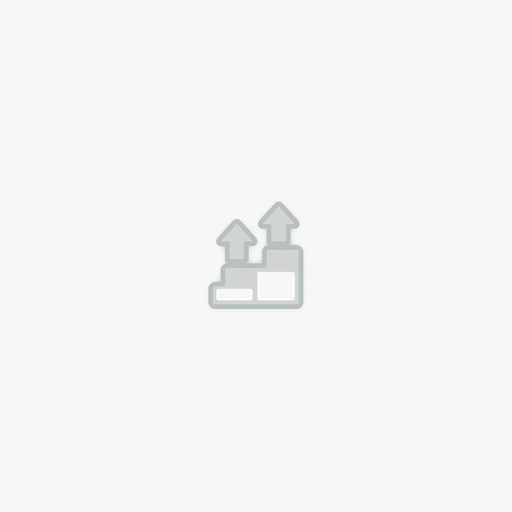
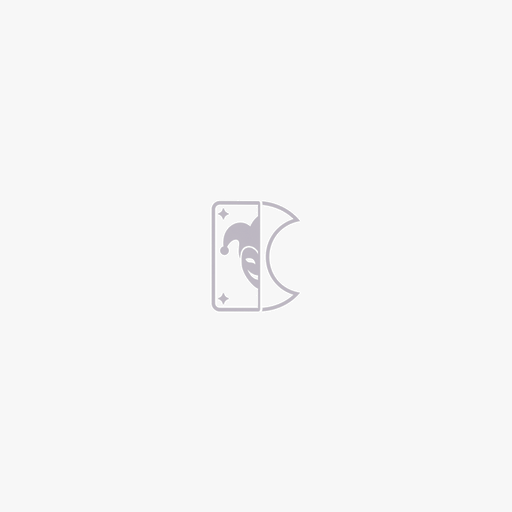
A 级特效 + 卡面素材管线 + 灌铅骰换图(试玩反馈批二)
- FxBurst 特效层(全程序化 ~640 行):预支借/还/违约碎裂 · 超级百搭金色旋涡 ·
  客串谢幕追光 · 规则牌宣告横幅;教学关不演;四张实拍逐张对账修了「数字对形态错」四处
- 顺手修真 bug:客串到寿 core 摘卡后视图从不跟摘(数据没了、槽位还挂着)
- 商店/图鉴卡面统一接 art512 素材管线(与槽位同一路径, 不抄第二份)
- 灌铅骰素材 compound_mark(复利台阶, 与「概率翻倍」不同义)→ half_double;
  ⚠ 素材库无骰子类具象图, 要一眼看懂需用户出插画(台账 #10 已注)
- 包厢 ×1.2→×1.35/张(用户「条件很难奖励太低」);单测 2632/0

Changed region(s): [[0.4062, 0.375, 0.5938, 0.625]]

diff --git a/docs/design/rebalance_draft.md b/docs/design/rebalance_draft.md
@@ -1,0 +1,192 @@
+# 小丑牌全池重标 · 建议稿(⑥ 批,只建议不改动)
+
+> 2026-08-27 产出,供用户逐条批。**本稿没有改任何 JSON/代码**;所有「建议」列都是提案。
+> 口径 = [numbers.md](numbers.md) 五因子(生效时间/生效机制/条件概率/条件成本/波动性)
+> + [feedback_20260827.md](feedback_20260827.md)(真人台账,权重最高)
+> + `/tmp/sync5-gate/gate_cards.log`(kit 实测)。
+> **数字与 kit 读数分开列**:「当前数额」「建议数额」是设计值;「kit 读数」是仪器读数,二者不混。
+
+## 0. 读这张表之前的五条口径
+
+1. **目标带**:support 局贡献 **+800 ~ +2500**(方向值)。排序 = 离带的距离,偏离最狠的在最上面。
+   Target 族不适用这条带(它们按 jokers.md 覆盖面两层原则 + 牌型倍率 v3 的 `P(≥k|b) × (1+λ·CV)` 标定),
+   但仍按分差排进表里看离散度 —— ⑥ 批的总目标是把 70 倍离散度收敛到 3 倍量级。
+2. **kit 是 08-27 门的旧世界读数**。四张卡/族已在门后改动,读数标 ⚠**过期**:
+   **拆迁**(弃6×3.5 → 弃4×2)· **和弦/和声/静场**(条件已放宽;静场数额同步 0.4→0.15)·
+   **镜面**(已加 target_streak 连续两拍条件)· **包厢**(0.2→0.35/张,feedback #5)。
+   另外**牌型倍率 v3 已重标** ⇒ 全部 score 通路读数都是旧倍率世界的,Target 族尤甚 —— 本稿的
+   建议以「方向 + 幅度」为主,落地前逐张 `kit` 复测是 SOP 第 5 步,不能省。
+3. **kit 基线不止一个**:score 臂空装基准 **3882**;镜面在 twin 臂(基准 **17546**,分差尺度大一档);
+   灌铅骰在 allin 臂(基准 **4909**);盲奏在 dimstage 环境(基准 **3826**)。% 列已按各自基线归一。
+4. **经济 v2 改变了第④因子(条件成本)的世界**:弃牌 1◆/张(推翻弃牌免费)· 卡价平化 3◆ ·
+   开局 10◆ · 主收入 kind_coins。两个连带:
+   ① **吃弃牌的卡(黑胶/贝斯线/周转/拆迁/让位/早弃)条件成本剧变**,其中黑胶 v3 砍到 +1/弃的
+   前提「弃牌免费」已不存在;② numbers.md §8.0 的稀有度地板线(50/75/110)是按 4/6/9◆ 推的,
+   **卡价平化后这条线的推导基础失效**,rare 卡「贵所以该强」的溢价理由消失 —— 本稿按
+   「rare = 低频高爆/构筑轴」而非「rare = 更贵」给建议。
+5. **定价锚优先级:先验 > 真人 > bot**。kit 是 bot 读数 —— 凡 bot 与真人行为已知劈叉的条件
+   (保型/早锁/持币),表里按真人锚给建议并注明,**不拿 bot 读数直接除**。λ(风险厌恶)归用户手感,本稿不代填。
+
+---
+
+## 1. 头部怪物 · 压法建议(5 张,先批这节)
+
+| 卡 | kit 分差 | 现状 | 压法建议 | 理由 |
+|---|---:|---|---|---|
+| **mirror 镜面** | +36097(⚠twin 臂尺度,205.7%)⚠过期 | 复制 Target 倍率一半(×0.5),**已改 target_streak 连续两拍** | **① 先复测**:新条件把 twin 系触发从「每次 Target 牌型」压到「连续两拍」,幅度未知;**② 复测后若仍 >2×带顶:factor 0.5→0.35**;③ 仍不够再谈 streak 加长到 3(条件手段留作第二刀,别一次叠两刀) | 它是全池离散度之最;条件刀已下,数额刀等读数,一次只动一个变量 |
+| **triplet 三连音** | +23535(606.2%,触 27%) | 三条/葫芦/四条 ×10 | **×10 → ×8** | 覆盖面(三条系)对 27% 触发给 ×10,分差是 twin 的 1.7 倍而覆盖并不更窄;v3 组合口径 `P(≥三条|b)` 大概率也会把它压下来,先压到 ×8 等仪器数 |
+| **kaleido 万花筒** | +8794(226.5%,触 52%) | 换一种成手 ×4 | **×4 → ×3** | 它是覆盖面最宽的 Target(任意成手、只要求和上一拍不同),52% 触发 ×4 = 用最松的条件拿次高的量级;条件本身(换型)是好玩点,该压的是数额 |
+| **stair 阶梯** | +9765(251.6%,触 15%) | 顺子系 ×11 | **维持 ×11,等 `P(≥顺|b)` 扫表**(cards.md v3 首位) | feedback #2 权重最高:顺子实际比先验难(金币约束)且波动率该溢价 —— kit 的 15% 是弃牌免费旧世界的读数,**现在压它方向可能是反的**;这张卡的最终数归 v3 公式,不在本批手拍 |
+| **shredder 速弹** | +8010(206.3%,触 49%) | 早锁成手 ×4 | **数额先不动;修 M5 早锁可见性优先**(§8.4 已挂)。若 bot 尺度通胀要治:×4→×3.5 一小步 | bot 早锁 78% vs 真人 8%:kit 的 206% 真人根本拿不到 —— 按 bot 压数额 = 把一张真人端偏弱的卡打死;地基是可见性,不是数字 |
+
+**twin 双子(+13663,352%)不列头五但必须记账**:方向 **×6 → ×5**。它覆盖对子+两对
+(最宽的高频族,触发 89%),分差是全 Target 第二。⚠ 但它是 kit/sim 的 **anchor 队列本体**,
+动它 = 全仪器重基线,建议放在本批**最后**单独落,前后各跑一次全量对照。
+
+---
+
+## 2. 全 77 卡表
+
+五因子速记:`时`=生效时间(局/段) · `机`=生效机制(每次/累积) · `触`=触发率(kit 实测;规则牌为先验成手率) ·
+`币`=条件成本(0 / 1◆·弃 / 持币机会成本 / 缓存格机会成本 / 刷新费 / 借贷) · `波`=波动性(低/中/高)。
+kit 读数格式 = `分差 / 触发率`,全部是**旧世界读数**(见 §0.2),⚠过期 = 门后已改、读数作废。
+
+### 2.1 score 通路 —— 带上(偏离最狠 → 擦边)
+
+| # | 卡 | 稀有·类 | 当前数额 | 五因子速记 | kit 读数 | 建议数额 · 一句理由 |
+|---:|---|---|---|---|---|---|
+| 1 | mirror 镜面 | rare·supp | Target 倍率 ×0.5 复制(条件已改 target_streak) | 时局·机每次·触75%(旧条件)·币0·波中 | +36097 / 75% ⚠过期(twin臂) | **先复测;仍超则 0.5→0.35**(§1) |
+| 2 | triplet 三连音 | rare·target | 三条/葫芦/四条 ×10 | 时局·机每次·触27%·币0·波高 | +23535 / 27% | **×10→×8**(§1) |
+| 3 | twin 双子 | rare·target | 对子/两对 ×6 | 时局·机每次·触89%·币0·波低 | +13663 / 89% | **×6→×5,批末单独落**(anchor 连带,§1 末注) |
+| 4 | stair 阶梯 | rare·target | 顺子/同花顺 ×11 | 时局·机每次·触15%·币1◆·弃(追型要弃)·波高 | +9765 / 15% | **维持 ×11,等 P(≥顺\|b) 扫表**(feedback #2 反向证据,§1) |
+| 5 | kaleido 万花筒 | rare·target | 换型成手 ×4 | 时局·机每次·触52%·币0·波中 | +8794 / 52% | **×4→×3**(§1) |
+| 6 | shredder 速弹 | rare·target | 早锁成手 ×4 | 时局·机每次·触49%(bot)/真人早锁仅8%·币0·波高 | +8010 / 49% | **不动数额,先修 M5 早锁可见性**(§1) |
+| 7 | loadeddice 灌铅骰 | rare·supp | 全部概率 ×2 | 时局·机每次·触—(改判定)·币0·波压低他卡波动 | +2887 / —(allin臂) | **维持;挂组合观察**:骰+孤注 = 硬币翻面变必胜(0.5→1.0),骰+彩头同理 —— 若成必买组合,压法是概率封顶 95% 而非动数额 |
+| 8 | momentum 惯性 | unc·supp | 每早锁 +10% 永久 | 时局·机**累积**·触93%(bot)/真人8%·币0·波低 | +2795 / 93% | **维持;同速弹,修早锁可见性优先**(v3 §8.2 已裁定「先修卡不修价」) |
+| 9 | mono 单色 | rare·target | 同花系 ×12 | 时局·机每次·触3%(bot追不动)·币1◆·弃·波高 | +2724 / 3% | **维持 ×12,与阶梯同批等 b-扫表**(同花是金币约束最重的追型) |
+| 10 | nopair 清流 | com·supp | 无对 +190(=目标分45.7%) | 时局·机每次·触51%·币0·波中 | +2646 / 51% | **维持·观察**:带顶擦边;真人锚 p=0.33 时 190 是 v2 公式解,bot 51% 是 bot 爱散牌 —— 别按 bot 砍 |
+
+### 2.2 score 通路 —— 带内(维持为主,按分差降序)
+
+| # | 卡 | 稀有·类 | 当前数额 | 五因子速记 | kit 读数 | 建议数额 · 一句理由 |
+|---:|---|---|---|---|---|---|
+| 11 | fullcast 全员 | com·supp | 五张成手 +320(=76.9%) | 时局·机每次·触22%·币1◆·弃(追型)·波高 | +2013 / 22% | **维持;规则牌 Δp 数据到位后方向下调**(§8.3/§9.5 封锁未解,建成态 p 明显高于 0.10) |
+| 12 | gueststar 客串 | unc·supp | ×+0.5,一段后离场 | **时段**·机每次·触100%·币3◆买短租·波低 | +1944 / 100% | **维持**:唯一「一轮限定」卡,窗口窄换强度是五因子①的教科书案例 |
+| 13 | finale 尾声 | com·supp | 末2秒行动 +100(=24%) | 时局·机每次·触70%·币0·波低 | +1929 / 70% | **维持**(v2 定价,带内) |
+| 14 | ensemble 合奏 | rare·supp | 缓存并入:8选5 | 时局·机每次·触—(结构)·币占满3格·波低 | +1840 / — | **维持**:8选5 让牌型频率整体上移(实测事实),读数只量了分差、没量它抬别的卡的外部性 —— 别单看这行加码 |
+| 15 | variation 变奏 | com·supp | 换型 +85(=20.4%) | 时局·机每次·触74%·币0·波低 | +1834 / 74% | **维持**(v2 定价,带内) |
+| 16 | goldenvoice 金嗓 | rare·supp | 每6◆ ×+0.1 | 时局·机每次·触100%·币持币机会成本·波低 | +1657 / 100% | **维持·观察**:经济 v2 后持币曲线会变(弃牌要钱了),铁粉同理,等新持币分布 |
+| 17 | earlyout 早弃 | com·supp | 前4秒弃完 +80(=19.2%) | 时局·机每次·触70%·币1◆·弃·波中 | +1560 / 70% | **维持**:弃牌费是它条件的一部分,读数复测再议 |
+| 18 | popup 快闪 | com·supp | 段首拍 +80% 目标分 | 时局·机每次·触17%(结构1/6)·币0·波低 | +1542 / 17% | **维持**:v3 已从死档救活(0.8 目标分),窗口结构性、无操作空间,不再加 |
+| 19 | encore 回响 | com·supp | 保型 +240(=57.7%) | 时局·机每次·触22%·币0·波中 | +1424 / 22% | **维持**(v2 定价 240;真人建成态 0.30-0.33 印证过) |
+| 20 | neonsign 灯牌 | com·supp | 恒 +50(=12%) | 时局·机每次·触100%·币0·波零 | +1384 / 100% | **维持**:全池地板,v2 支配关系的锚,动它全表重排 |
+| 21 | rehearsal 排练 | com·supp | 缓存连号 +200(平加) | 时局·机每次·触55%(solver)·币占格·波中 | +1373 / 55%(solver臂) | **维持**:v2 死档复审后已由 solver 臂证活 |
+| 22 | rainbow 彩虹 | com·supp | 四花色 +180(=43.3%) | 时局·机每次·触27%·币0·波中 | +1357 / 27% | **维持·观察挂账**:真人 p=40%(n=15 薄),n≥30 坐实则按彩票公式 180→150 方向下调(§8.3) |
+| 23 | bassline 贝斯线 | rare·supp | 每8弃 ×+0.25 永久 | 时局·机**累积**·触73%·币**8◆/档**(经济v2)·波中 | +1284 / 73% | **维持,复测优先**:1◆/弃让每档成本 8◆ ≈ 两三拍收入,读数是免费弃牌世界的;若复测崩,step 8→6 而不是抬倍率 |
+| 24 | fastforward 快进 | rare·supp | 每早锁 ×+0.1 永久 | 时局·机**累积**·触84%(bot)/真人8%·币0·波低 | +1223 / 84% | **维持;随速弹/惯性一起等早锁可见性修复** |
+| 25 | skint 穷开心 | rare·supp | 币上限5 + 恒 ×+0.3 | 时局·机每次·触100%·币**上限5◆的全部机会成本**·波低 | +1165 / 100% | **维持·观察**:经济 v2 后 5◆ 上限的代价大幅变贵(弃牌/买卡都要钱),它可能自己掉下来 |
+| 26 | bassclef 低音谱 | unc·supp | 低牌=15 | 时局·机每次·触65%·币0·波低 | +1076 / 65% | **维持**(v3 已抬 10→15) |
+| 27 | allin 孤注 | rare·supp | 硬币:×2 或 ×0.5 | 时局·机每次·触100%·币0·**波极高(卖的就是方差)** | +1026 / 100% | **维持**:期望 ×1.25、方差拉满,正是彩票档该有的形状;组合风险记在灌铅骰行 |
+| 28 | opener 开场 | unc·supp | 段首拍 +150% | 时局·机每次·触17%(结构)·币0·波低 | +996 / 17% | **维持**(v3 刚抬 80→150,观察点①未回收,不叠刀) |
+| 29 | segue 串场 | com·supp | 换入记分 +40/张(=9.6%) | 时局·机每次·触70%·币0·波低 | +979 / 70% | **维持** |
+| 30 | curtain 谢幕 | unc·supp | 最后1秒行动 +60% | 时局·机每次·触41%·币0(压秒有失手险)·波中 | +956 / 41% | **维持**:与尾声同族,真人端「压秒」的执行折扣比 bot 大,别按 bot 加码 |
+| 31 | turnover 周转 | com·supp | 每弃 +30(=7.2%/弃) | 时局·机每次·触84%·币**1◆/弃**·波低 | +886 / 84% | **维持·复测**:经济 v2 每次触发自带 1◆ 成本,读数过时方向对它不利;复测低于带再抬 30→35 |
+| 32 | vinyl 黑胶 | com·supp | 每弃 +1 chips 永久 | 时局·机**累积**·触99%·币**1◆/弃**·波低 | +858 / 99% | **⑥ 抬:+1→+2/弃**。v3 砍 +3→+1 的唯一理由是「弃牌免费」(economy.json 预言),经济 v2 把前提整个推翻 —— 现在是付费累积,+1 是双重惩罚 |
+| 33 | backer 后台 | com·supp | 每2◆ +1 chips | 时局·机每次·触100%·币持币机会成本·波低 | +850 / 100% | **维持**(common 版铁粉,带内下沿刚好) |
+| 34 | undertone 低声部 | com·supp | ≤5点牌 +9 chips/张 | 时局·机每次·触65%·币0·波低 | +845 / 65% | **维持**(v3 裁定带内高沿) |
+
+### 2.3 score 通路 —— 带下(垫底族,抬法;按偏离降序)
+
+| # | 卡 | 稀有·类 | 当前数额 | 五因子速记 | kit 读数 | 建议数额 · 一句理由 |
+|---:|---|---|---|---|---|---|
+| 35 | wrecker 拆迁 | rare·target | 弃≥4 成手 ×2(**已改 4×2**) | 时局·机每次·触0%(bot不可达)·币**4◆/触**·波高 | +0 / 0% ⚠过期+仪器盲区 | **数额不再动(4×2 刚落);附议 cards.md 推荐案「触发返还弃牌费」**(拆迁公司出拆迁费)—— 把第④因子从惩罚改成风味;真人读数等粒度修复 |
+| 36 | hush 静场 | rare·supp | 零弃 ×+0.15(**条件已放宽**) | 时局·机每次·触8%(旧条件)/真人零弃拍率52%·币**省弃牌费(负成本)**·波低 | −64 / 8% ⚠过期 | **复测后 0.15→0.25 方向**:放宽+省弃牌费是双重顺风,但 0.15×52% 仍只有 ~+300/局量级,rare 卡沉底;先跑 kit 拿新触发率再定 |
+| 37 | harmony 和声 | rare·supp | 缓存同色 ×+0.12(**条件已放宽**) | 时局·机每次·触4%(旧条件)·币占格·波中 | +52 / 4% ⚠过期 | **复测后 ×+0.12→×+0.25 方向**:与和弦同条件,rare 对 common 要保住阶差;若放宽后触发率上 40%,0.25 落带内 |
+| 38 | chord 和弦 | com·supp | 缓存同色 +60 平加(**条件已放宽**) | 时局·机每次·触4%(旧条件)·币占格·波中 | +154 / 4% ⚠过期 | **复测后 +60→+100 方向**:曾是量级豁免户(4% 触发数额救不了),条件刀已下,数额跟上一步让它离开死档 |
+| 39 | stageexit 让位 | com·supp | 每弃人头 +30(=7.2%/张) | 时局·机每次·触31%·币**1◆/弃**·波中 | +264 / 31% | **⑥ 抬:+30→+50/张**:垫底 +264 还要倒贴弃牌费,条件(人头在手且舍得弃)不便宜 |
+| 40 | triad 三和弦 | com·supp | 三条+ +25 chips | 时局·机每次·触11%·币0·波高 | +335 / 11% | **⑥ 抬:+25→+40**:爆发档铁律「数额必须值得等」,11% 触发给 25 chips 谁也不等 |
+| 41 | duo 对唱 | com·supp | 含对成手 +10 chips | 时局·机每次·触49%·币0·波低 | +373 / 49% | **⑥ 抬:+10→+15**:同为 common 改基,低声部一张牌就 +9,这张全手才 +10 |
+| 42 | reprise 复读 | unc·supp | 保型 +80% | 时局·机每次·触22%(bot不保型)·币0·波中 | +447 / 22% | **维持**:真人锚已对齐(v3 按建成态 0.30 定 80%,§8.2)——kit 低是 bot 行为,不是价格错 |
+| 43 | warmtone 暖色 | com·supp | 红牌 +3 chips/张 | 时局·机每次·触97%·币0·波零 | +461 / 97% | **维持**:v3 有意砍到地板(无条件卡不许最优),低于带是设计不是病 |
+| 44 | cooltone 冷色 | com·supp | 黑牌 +3 chips/张 | 时局·机每次·触97%·币0·波零 | +465 / 97% | **维持**(与暖色同刀同理) |
+| 45 | boxseats 包厢 | rare·supp | 缓存人头 ×+0.35/张(**已 0.2→0.35**) | 时局·机每次·触50%·币**占格(最贵的机会成本)**·波中 | +466 / 50% ⚠过期 | **维持 0.35,复测定稿**:feedback #5 的抬法已落地(满3张 ×2.05),先看新读数再谈第二步 |
+| 46 | stilllife 静物 | com·supp | 零换 +60(=14.4%) | 时局·机每次·触28%·币0(放弃对调手段)·波中 | +474 / 28% | **⑥ 抬:+60→+90**:「零换」在拖拽对调是核心手势的游戏里是真约束,28% 触发 +60 沉底 |
+| 47 | chorus 副歌 | unc·supp | 段末拍 +75% | 时局·机每次·触17%(结构1/6)·币0·波低 | +487 / 17% | **维持**:真人反事实 77/拍 ≈ 目标 75(v3 裁定不动);kit 低是 bot 段末分偏低 |
+| 48 | glowstick 荧光棒 | unc·supp | +60% 起,每拍 −6% | 时局·机每次·触42%·币0·波低 | +502 / 42% | **维持**:v3 按前6拍积分裁定带内(−6% 在手感带内) |
+| 49 | recycle 回收 | unc·supp | 缓存弃牌返 2×点数 | 时局·机每次·触84%·币1◆·弃+占格·波低 | +529 / 84% | **⑥ 抬:2×→3× 点数**:高触发低单价,加上弃牌费后净值更薄 |
+| 50 | vip 贵宾 | unc·supp | 人头=20 | 时局·机每次·触58%·币0·波低 | +546 / 58% | **⑥ 抬:20→25**:v3 抬 15→20 后真人反事实仍 ~41 分/拍,不到 unc 目标 75 的六成 |
+| 51 | superfan 铁粉 | unc·supp | 每2◆ +5%,cap 15% | 时局·机每次·触100%·币持币机会成本·波零 | +583 / 100% | **维持**:v3 刚砍(无脑卡最优的自我纠错);经济 v2 会让持币真的有代价,先看新持币分布 |
+| 52 | blindplay 盲奏 | unc·supp | 暗牌记分 +8 chips/张 | 时局·机每次·触88%(dimstage下)·币0·波低 | +593 / 88%(dimstage臂) | **⑥ 抬:+8→+12**:只在特定脸的场合生效的卡,窗口窄(五因子①)反而该更强,现在是窄且弱 |
+| 53 | duet 二重唱 | unc·supp | 含对成手 +25% | 时局·机每次·触49%·币0·波低 | +609 / 49% | **⑥ 抬:+25%→+30%**:小步,与对唱同族同方向 |
+| 54 | stopwatch 秒表 | unc·supp | 每剩1秒 +8% | 时局·机每次·触65%·币0(赶手速)·波中 | +627 / 65% | **⑥ 抬:+8%→+10%/秒**:时间是唯一压力货币,拿秒数换分的卡该给足汇率 |
+| 55 | triplebill 三重 | unc·supp | 三条+ +60% | 时局·机每次·触11%·币0·波高 | +641 / 11% | **⑥ 抬:+60%→+80%**:与三和弦同族,爆发档要值得等 |
+| 56 | bench 替补 | unc·supp | 缓存最高点数计入 chips | 时局·机每次·触100%·币占格·波低 | +662 / 100% | **⑥ 抬:计 1 倍→计 2 倍**(additive_cache_top 1→2):恒触发也才 +662,占格成本没被付够 |
+| 57 | jackpot 彩头 | unc·supp | 段末拍 50% ×3 | 时局·机每次·触8%·币0·**波极高** | +675 / 8% | **⑥ 抬:×3→×4**:结构窗(1/6)× 硬币,双重折扣下的爆发档,数额要配得上 8% 的等待 |
+| 58 | freeze 定格 | unc·supp | 早锁后下一拍 +30% | 时局·机每次·触58%·币0·波中 | +683 / 58% | **⑥ 抬:+30%→+40%**:跨拍接力(先早锁、下拍才收钱)是双拍成本,读数也确实沉底;真人早锁修好后再复测 |
+
+### 2.4 coin 通路(量纲=◆,不与分数混排)
+
+| # | 卡 | 稀有 | 当前数额 | 五因子速记 | kit 读数(累计◆) | 建议 · 一句理由 |
+|---:|---|---|---|---|---|---|
+| 59 | interest 利息 | unc | 每持4◆ +1◆,cap 5 | 时局·机每次·触100%·币持币·波零 | +112.2◆ / 100%(221%) | **⑥ 压:cap 5→3**:金币收入通路的头部(基准的 2.2 倍);经济 v2 让钱重新是活约束,利滚利的复利卡必须先压 |
+| 60 | lonewolf 独狼 | rare·target | 零弃 +3◆ + Target 必上架 | 时局·机每次·触100%(bot)/真人零弃52%·币放弃弃牌·波低 | +84.4◆ / 100% | **维持**:它占的是 Target 槽(放弃全部倍率),机会成本已经是全池最大 |
+| 61 | royalty 分成 | unc | 牌型金币 ×2 | 时局·机每次·触100%·币0·波低 | +54.7◆ / 100% | **维持**:feedback #4 是信息缺口(基准不明),卡面带例已修,数值不动 |
+| 62 | matador 斗牛士 | unc | 脸的规则咬人时 +2◆ | 时局·机每次·触脸相关·币0·波中 | +24.0◆ / — | **维持**:对抗补偿卡,价值随脸池走,归 versus.md 侧衡量 |
+| 63 | tipjar 小费罐 | com | 零弃 +2◆ | 时局·机每次·触16%(bot)/真人零弃52%·币放弃弃牌·波低 | +7.7◆ / 16% | **维持**:真人锚下 ~25◆/局,common 里已经够格;bot 读数低是 bot 爱弃牌 |
+
+### 2.5 shop 通路(证物读数,不与分数混排)
+
+| # | 卡 | 稀有 | 当前数额 | 五因子速记 | kit 证物读数 | 建议 · 一句理由 |
+|---:|---|---|---|---|---|---|
+| 64 | rebrand 转型 | unc | 每换 Target +40% 永久 | 时局·机**累积**·触换旗次数·币3◆/换·波中 | 计数 +1.3;总分参考 +6060(36.7%) | **⑥ 压:+40%→+25%/次**:曝光拉平后换旗从「两局一遇」变成「几乎每局都有」(§9.4),这张卡的条件概率被系统性抬高了,数额必须跟着降 |
+| 65 | collector 收藏家 | unc | 每买卡 +15 chips 永久,cap 30 | 时局·机**累积**·触买卡次数·币3◆/张·波低 | 计数 +5.7;总分参考 +6114(25.9%) | **⑥ 改结构:cap 30→60**:cap=30 意味着第 3 张起卡面在撒谎(「每买 +15 forever」实际两次封顶);抬到 60(4 次)让文案和行为对齐,同时防无上限的后期爆炸 |
+| 66 | digger 淘碟 | unc | 每刷新 +12 chips 永久 | 时局·机**累积**·触刷新次数·币**3◆+递增/次**·波低 | 计数 +0.3 | **维持**:刷新费递增本身就是天然上限 |
+| 67 | deejay 打碟 | rare | 每刷新 ×+0.05 永久 | 时局·机**累积**·触刷新次数·币**3◆+递增/次**·波中 | 计数 +1.2 | **⑥ 抬:×+0.05→×+0.08**:rare 版淘碟,按刷新费付出同样的钱,到达值要撑得起 rare 的构筑轴(8 刷 = ×+0.64) |
+| 68 | advance 预支 | unc | 借10還12,付不起=死 | 时局·机每次·触100%·币**借贷+违约险**·波高 | 花费 +20.6◆(证物✓) | **维持**:tempo 卡,强弱归 sim 大盘与真人,不吃单卡数额刀 |
+| 69 | sponsor 赞助 | unc | 货架 −1◆/张 | 时局·机每次·触100%·币0·波零 | 实收折扣 +3.4◆ | **维持·观察**:卡价平化 3◆ 后 −1◆ = 33% 折扣(比旧世界 4/6/9◆ 时更值),若经济 v2 后它变成必买,压法是 −1◆→段内限次 |
+| 70 | doublebill 联票 | rare | 货架4张、可买2 | 时局·机每次·触100%·币0·波低 | 双购店 +1.2(证物✓) | **维持**:结构卡,价值随货架质量走 |
+| 71 | jukebox 点唱机 | rare | 商店必出规则牌 | 时局·机每次·触100%·币0·波低 | 含规则牌店率 +0.7(证物✓) | **维持**:概率成长线的基建卡,曝光拉平后先看规则牌购买率是否被它抬起来 |
+
+### 2.6 solver / 规则牌(无数额或 Δp 计价,封锁中)
+
+| # | 卡 | 稀有 | 当前效果 | 五因子速记 | kit 读数 | 建议 · 一句理由 |
+|---:|---|---|---|---|---|---|
+| 72 | shortcut 近道 | unc | 顺子可跳一档 | 时局·机每次·触成手率9→27%(先验)·币0·波降低顺子波动 | 证物率 +0.2 ✓ | **维持**:Δp×流派价值计价被「真人持有 0 拍」封锁(§1);曝光已拉平,先攒两态数据 |
+| 73 | fourfingers 四指 | unc | 四张成顺/同花 | 时局·机每次·触成手率9→33%·币0·波同上 | 证物率 +0.2 ✓ | **维持**(同上) |
+| 74 | blacktone 黑调 | rare | 黑花色视为同一 | 时局·机每次·触成手率22→53%·币0·波同上 | 证物率 +0.3 ✓ | **维持**(同上;规则牌不可升级是平衡杠杆,别给它挂数) |
+| 75 | redtone 红调 | rare | 红花色视为同一 | 时局·机每次·触成手率22→51%·币0·波同上 | 证物率 +0.3 ✓ | **维持**(同上) |
+| 76 | superwild 超级百搭 | rare(特价4◆) | 4张JOKER入堆+付费洗牌 | 时局·机每次·触万能牌0→50%·币4◆+3◆/洗·波高 | 证物率 +0.5 ✓ | **维持**:特例价是用户拍板;洗牌费是它自带的第④因子,观察真人洗牌频次 |
+| 77 | trim 修剪 | rare | 2、3 离开牌堆 | 时局·机每次·触—(牌堆手术)·币0·波降低整体波动 | 分差 +1228 ✓ | **维持**:牌堆手术无证物牌型,分差带内 |
+
+---
+
+## 3. 最该先动 · 十条摘要(供逐条批)
+
+| # | 卡 | 建议 | 一句理由 |
+|---:|---|---|---|
+| 1 | **mirror 镜面** | 复测新条件(target_streak);仍 >2×带顶则 factor **0.5→0.35** | 全池离散度之最(+36097);条件刀已下,数额刀等读数,一次一个变量 |
+| 2 | **triplet 三连音** | **×10→×8** | +23535 / 606%,分差第二;27% 触发拿全池次高量级,覆盖面撑不起 ×10 |
+| 3 | **kaleido 万花筒** | **×4→×3** | 最宽覆盖(任意换型成手)52% 触发,+8794;好玩点在条件,超模在数额 |
+| 4 | **twin 双子** | **×6→×5,批末单独落** | +13663 / 89% 触发的最宽高频族;是 anchor 队列本体,动它必须前后全量对照 |
+| 5 | **interest 利息** | **cap 5→3** | 金币通路头部(+112◆,基准 2.2 倍);经济 v2 后钱是活约束,复利卡先压 |
+| 6 | **rebrand 转型** | **+40%→+25%/次** | 曝光拉平把换旗从两局一遇变成每局都有,条件概率被系统性抬高,数额必须跟降 |
+| 7 | **vinyl 黑胶** | **+1→+2/弃** | v3 砍到 +1 的前提「弃牌免费」已被经济 v2 推翻,付费累积不该再吃旧刀 |
+| 8 | **stageexit 让位 + stilllife 静物** | **+30→+50/张 · +60→+90** | 垫底双卡(+264 / +474):让位还倒贴弃牌费,静物放弃的是核心手势(对调) |
+| 9 | **triad 三和弦 + triplebill 三重 + duo 对唱** | **+25→+40 · +60%→+80% · +10→+15** | 三条件族整体垫底(+335/+641/+373);爆发档「数额必须值得等」,现在等不起 |
+| 10 | **chord 和弦 + harmony 和声 + hush 静场** | 复测后 **+60→+100 · ×+0.12→×+0.25 · ×+0.15→×+0.25** | 放宽三卡是全池最底(+154/+52/−64 旧读数);条件刀已下,数额跟一步,但必须先跑 kit 拿新触发率 |
+
+---
+
+## 4. 表尾备注(不定价,但批的时候要知道)
+
+- **feedback #3 未指认**:「每持有一个方块2 +1」不精确匹配任何现役卡面(最近似:后台 backer
+  「每2◆ +1 chips」/ 对唱 duo / 暖色族)。等用户指认后归入对应行,垫底族的抬法已覆盖这三个候选。
+- **稀有度地板线(§8.0 的 50/75/110)基础已失效**:它按 4/6/9◆ 购买价推导,经济 v2 卡价平化 3◆。
+  本稿按「rare=低频高爆/构筑轴」给建议;地板线要不要按 3◆ 重推,建议单独立卷。
+- **早锁三卡(速弹/惯性/快进)全部先修 M5 可见性**:真人早锁 8% vs bot 78%,数额刀在可见性
+  修好之前都是打空气(§8.4 第 3 条)。
+- **灌铅骰组合观察**:骰(×2 概率)+ 孤注/彩头 = 确定性倍率,若成必买骨架,与「获胜构筑骨架
+  必须不止一种」铁律冲突;备选压法 = 概率封顶 95%,不动数额。
+- **λ(波动率溢价系数)本稿未填**:归用户试玩手感标定(cards.md v3),表内所有「维持·等扫表」
+  的 Target 都在等它。
+- 落地时逐张走 numbers.md §5 六步 SOP:kit 复测 → sim 漂移 ±3pt → tests → 记账。本稿只完成第 0 步。

diff --git a/docs/design/feedback_20260827.md b/docs/design/feedback_20260827.md
@@ -14,4 +14,4 @@
 | 7 | 教学分数动画被压 | 教学 v6 | merge 静默失败的劈叉态 | ✅ 真 merge 已补,待重验 |
 | 8 | 盲注卡压货架 | 商店 | — | ✅ 停靠下部 |
 | 9 | 替换想取消不能操作 | replace | 按钮在;守卫吞点击嫌疑 | ✅ 守卫放宽;若按钮不在场景待用户复述路径 |
-| 10 | 灌铅骰图标看不懂;卡面没换新素材 | 商店卡面层 | 旧矢量指纹系统未接新素材 | 工单:卡面接 art512/横幅管线 |
+| 10 | 灌铅骰图标看不懂;卡面没换新素材 | 商店卡面层 | 旧矢量指纹系统未接新素材 | ✅ 卡面已接 art512(商店/图鉴统一);灌铅骰 compound_mark(复利台阶,与「概率翻倍」不同义)→ half_double(一半化作双份)。⚠ **素材库无骰子类具象图**(quiet_glyph 风格全抽象)—— 要真正一眼看懂,需用户出一张骰子插画丢 assets/jokers/joker_loadeddice.png(即插即用) |
